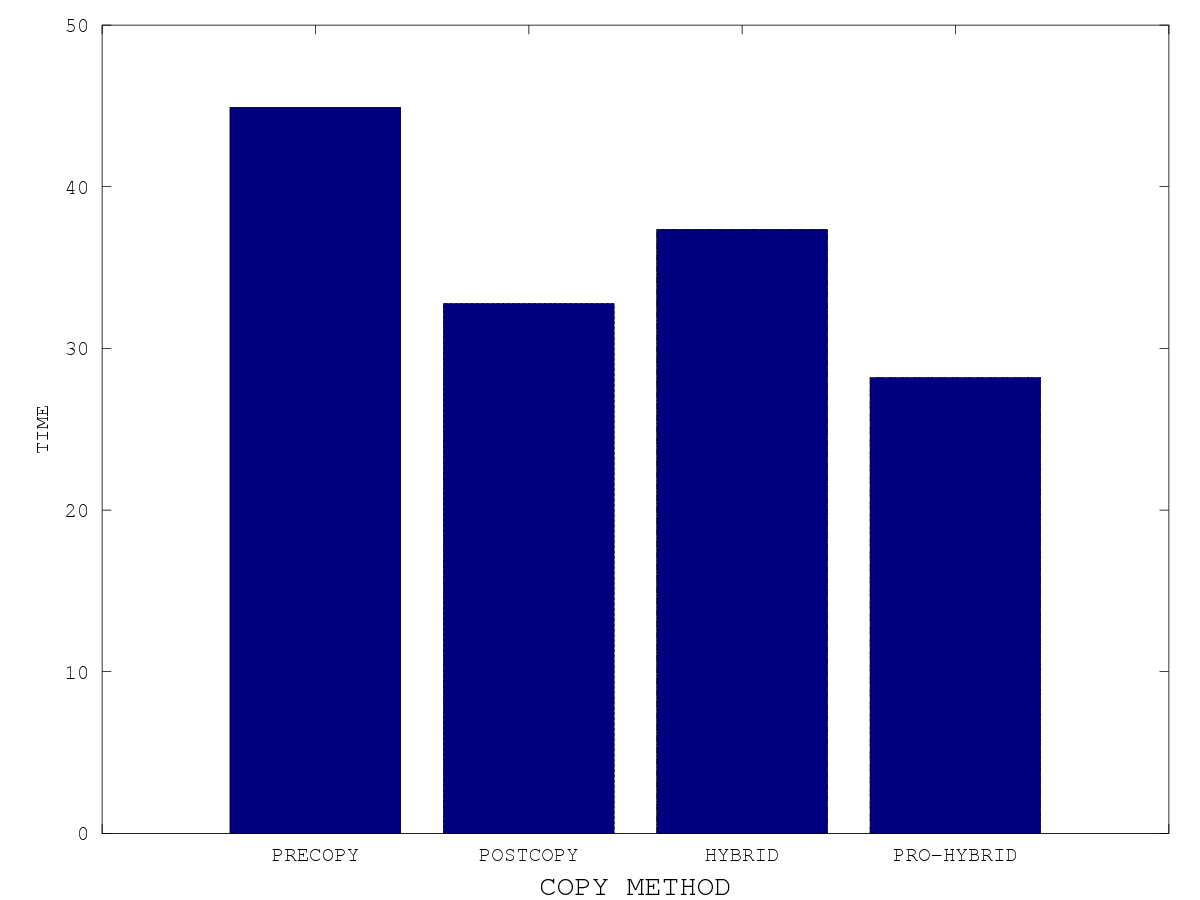
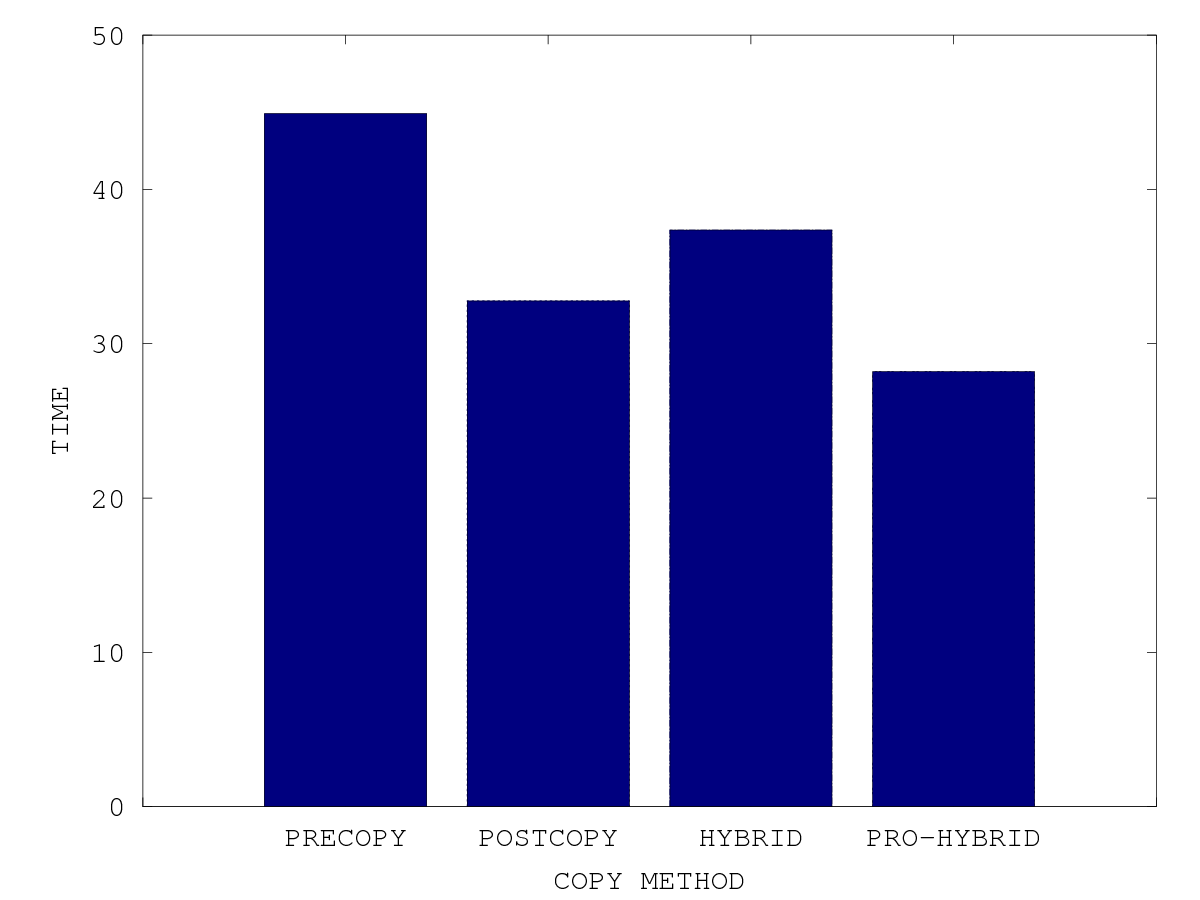
basic.m

diff --git a/basic.m b/basic.m
@@ -228,9 +228,9 @@ x = ['PRECOPY', 'POSTCOPY', 'HYBRID', 'PRO-HYBRID'];
 %plot(x, A(:,2)/1000000, x, A(:,3)/1000000, '-.*');
 %plot(A(:,2));
 bar(A(:,1))
-set(gca, 'XTickLabel', {'', 'PRECOPY', 'POSTCOPY', 'HYBRID', 'PRO-HYBRID', ''})
+set(gca, 'XTickLabel', {'', 'PRECOPY', 'POSTCOPY', 'HYBRID', 'PRO-HYBRID', ''}, 'FontSize', 14)
 xlabel('COPY METHOD', 'FontSize', 14);
-ylabel('TIME');
+ylabel('TIME', 'FontSize', 14);
 %legend('PRECOPY', 'POSTCOPY', 'HYBRID', 'PRO-HYBRID');
 %bar(x, A(:,1))
 
